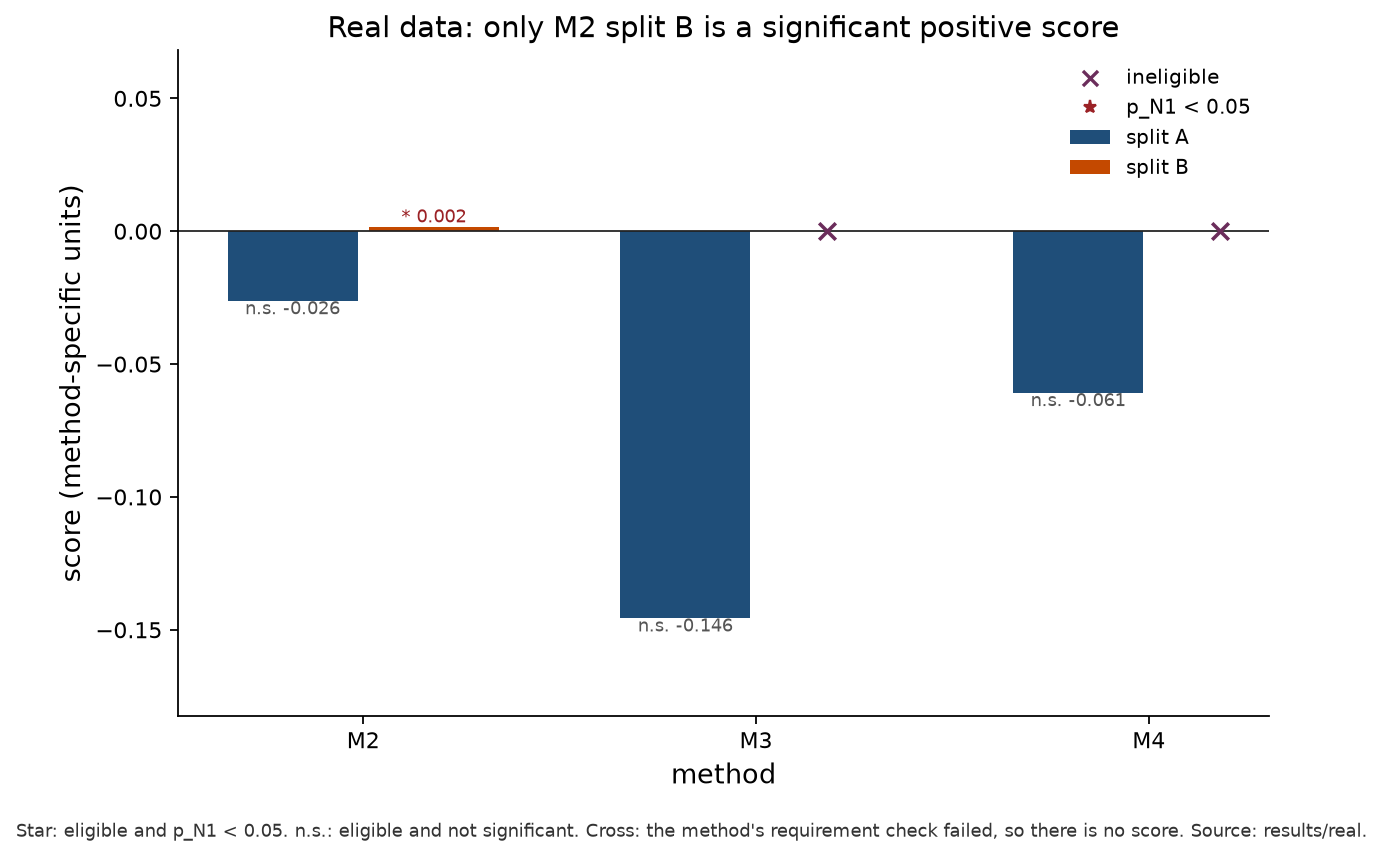
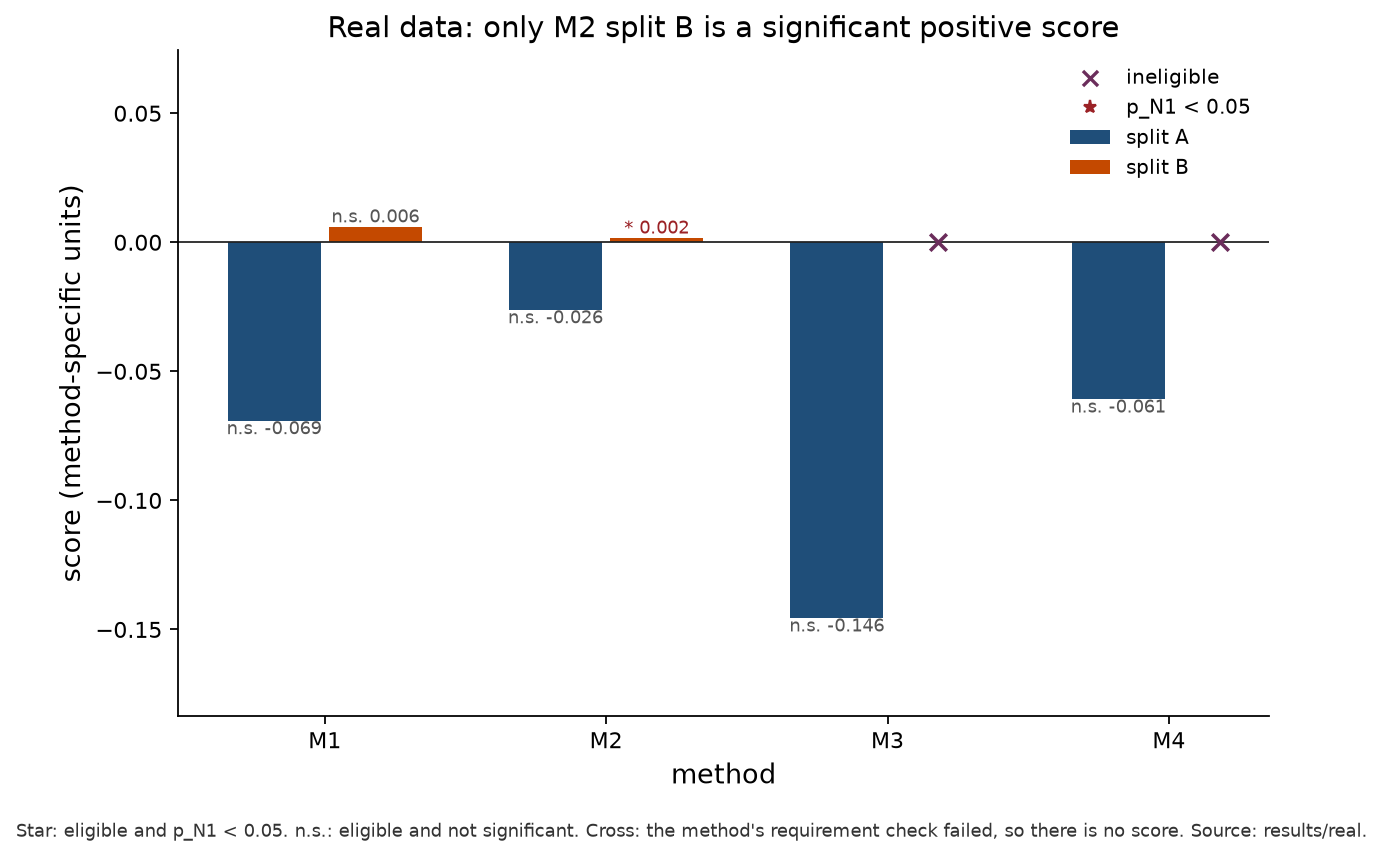
figures: include M1 on the real-data score bar
M1 landed on main after the first figure, and the bar should show every method that has a result JSON.

diff --git a/results/figures/README.md b/results/figures/README.md
@@ -50,5 +50,6 @@ A star marks `p_N1 < 0.05`.
 `n.s.` marks an eligible score that is not significant.
 A cross marks an ineligible method, which has no score.
 On the current real session the only significant positive score is M2 on split B (0.002).
+M1 on split B is positive but not significant (0.006).
 M3 and M4 on split B are ineligible.
-The other eligible scores are negative and not significant.
+The remaining eligible scores are negative and not significant.
